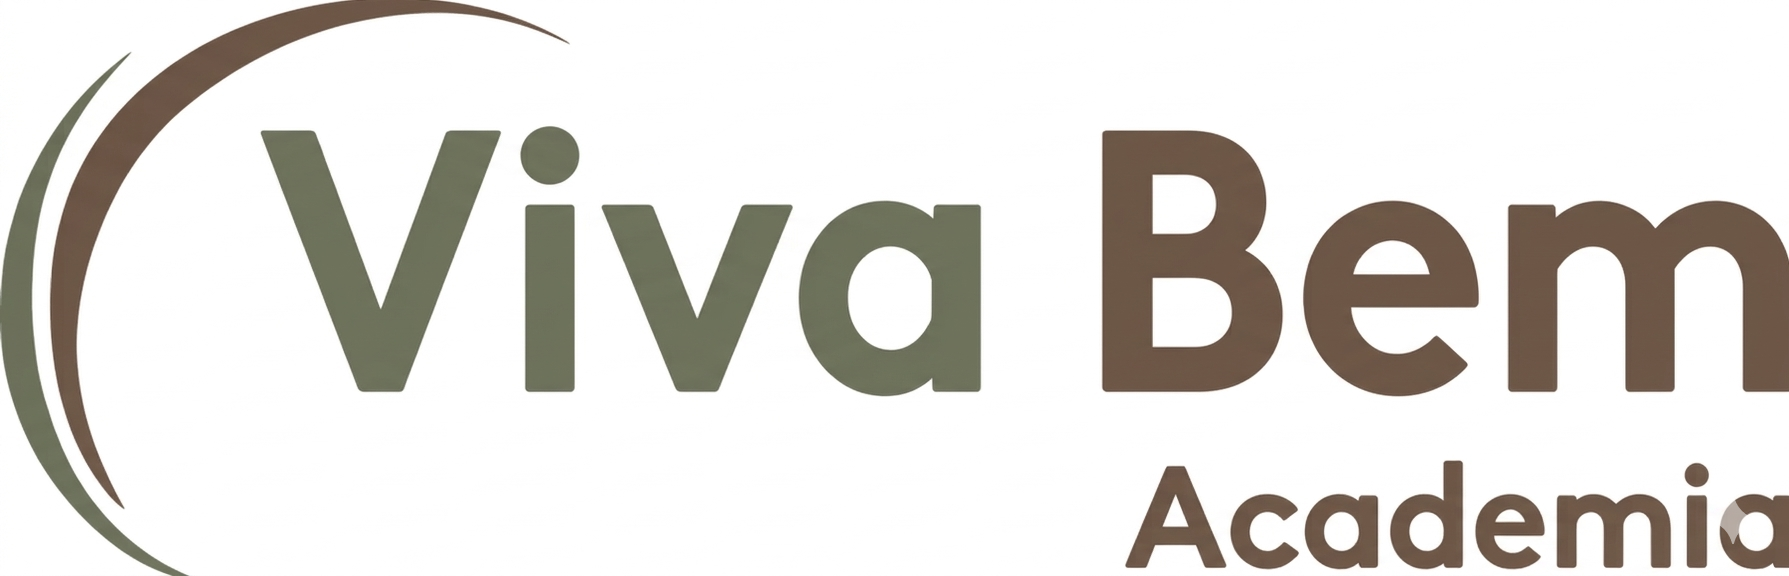
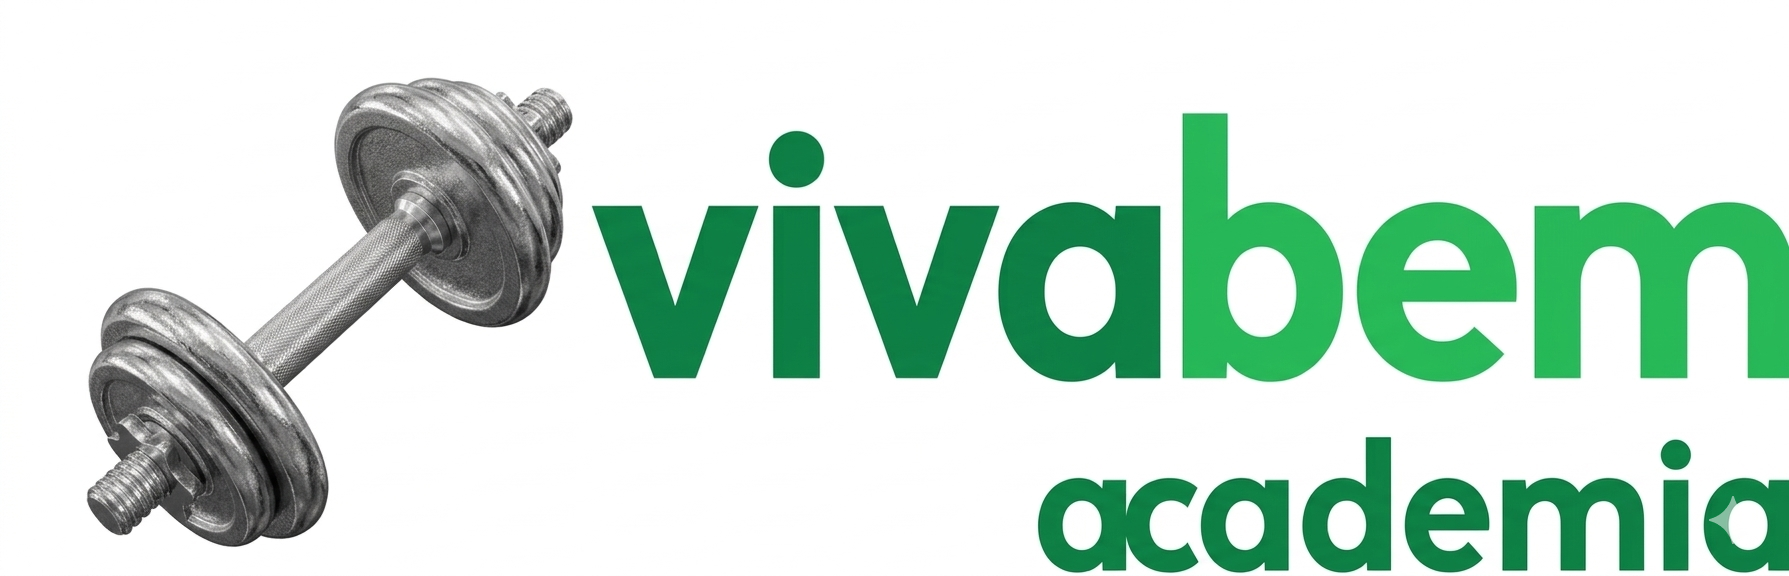
Finalizado

diff --git a/sobre.html b/sobre.html
@@ -14,10 +14,10 @@
             </div>
             <div class="menu">
                 <ul>
-                    <li>Home</li>
-                    <li>A Viva Bem</li>
-                    <li>Contato</li>
-                    <li>Área do Aluno</li>
+                    <a href="index.html"><li>Home</li></a>
+                    <a href="sobre.html"><li>A Viva Bem</li></a>
+                    <a href="contato.html"><li>Contato</li></a>
+                    <a href="area_do_aluno"><li>Área do Aluno</li></a>
                 </ul>
             </div>
         </div>
@@ -31,13 +31,11 @@
 
         <section>
             <div class="conteudo">
-                <p>A Greenlife Academias tem como propósito levar opções diferenciadas para quem busca saúde e qualidade de vida.
-                Com alto padrão de atendimento e os mais modernos sistemas e equipamentos do mercado, trabalhamos com foco na promoção de saúde por meio de um ambiente sustentável, seguro e familiar.</p>
-                <p>Atualmente com 21 unidades sendo 18 em Fortaleza, uma no Eusébio, uma em Caucaia e uma em Maranguape. Nossa missão é atender aos mais diversos públicos e faixas etárias, oferecendo diversas modalidades e atividades que conectem as pessoas com sentimentos de realização e com foco em resultados.</p>
+                <p>A Viva Bem Academia nasceu com o propósito de transformar vidas por meio da atividade física, promovendo saúde, bem-estar e qualidade de vida para todos os públicos. Com equipamentos de última geração e profissionais qualificados, oferecemos um ambiente completo para você treinar com segurança, conforto e motivação. Aqui, cada aluno é único e cada conquista é valorizada. Aqui, cada aluno encontra mais do que uma academia: encontra apoio, motivação e um ambiente preparado para incentivar o seu melhor. Nosso objetivo é fazer com que você se sinta bem, todos os dias.</p>
+                <p>Mais do que um espaço para treinar, somos um ambiente pensado para acolher, motivar e acompanhar cada aluno em sua jornada. Contamos com uma estrutura moderna, equipamentos de alta qualidade e uma equipe de profissionais capacitados, prontos para oferecer suporte e orientação personalizada. Nosso modelo é baseado em inovação, eficiência e foco no cliente, garantindo uma experiência completa e satisfatória para todos os perfis de alunos.</p>
                 <img src="img/img-section.png" alt="img">
-                <p>Somos mais que um local para a prática de exercícios físicos. Oferecemos a oportunidade cuidar do corpo, da mente, das relações e da família a partir da consciência de uma vida mais saudável em todos os âmbitos. Por meio das nossas atividades e serviços, o cliente Greenlife tem uma experiência diferente ao cuidar de si em um espaço multidisciplinar que integra gerações. Por isso somos conhecidos como a “Academia da Família”.</p>
-                <p>Incentivamos não só a prática de exercícios físicos em família, também estimulamos as relações humanas e convivência por meio de eventos e atividades complementares. Contamos com programas exclusivos voltados para o desenvolvimento infantil, apoiando a troca de experiência entre famílias, oferecendo um ambiente mais caloroso e preocupado com o bem-estar dos nossos clientes.
-                Somos um lugar seguro para cuidar da saúde, desenvolver bons hábitos e buscar a felicidade por meio da atividade física.</p>
+                <p>Nosso compromisso é proporcionar uma experiência completa, unindo conforto, segurança e inovação. Acreditamos que cuidar do corpo também é cuidar da mente, e por isso incentivamos hábitos saudáveis e uma rotina equilibrada..</p>
+                <p>Acreditamos que a prática de exercícios físicos transforma vidas, e trabalhamos todos os dias para oferecer um ambiente acolhedor, motivador e eficiente. Seja para quem está começando ou para quem já treina há anos, a Viva Bem é o lugar ideal para evoluir, superar limites e alcançar resultados reais.</p>
             </div>
         </section>
         <section class="sobre-espaco">
@@ -58,8 +56,8 @@
                     <img src="img/wstc.jpg" alt="wstc">
                     <div class="card-info">
                         <h3>Unidade Sul</h3>
-                        <p>📍 Av. Washington Soares, 3663 4º andar - Fortaleza</p>
-                        <button>Ver no mapa</button>
+                        <p>📍 Washington Soares trade center - WSTC, Av. Washington Soares, 3663 4º andar, torre 2 Edson Queiros - Fortaleza</p>
+                        <a href="https://maps.app.goo.gl/rifTr6s9x5mezc5UA " target="_blank"><button>Ver no mapa</button></a>
                     </div>
                 </div>
                 <div class="card">
@@ -67,19 +65,18 @@
                     <div class="card-info">
                         <h3>Unidade Aldeota</h3>
                         <p>📍 Manhattan Square Garden Av. Santos Dumont, 1510 - Fortaleza</p>
-                        <button>Ver no mapa</button>
+                        <a href="https://maps.app.goo.gl/aqhfeDzMmJkUZiR67" target="_blank"><button>Ver no mapa</button></a>
                     </div>
                 </div>
                 <div class="card">
                     <img src="img/premium.jpg" alt="Harmony">
                     <div class="card-info">
                         <h3>Unidade Bezerra de menezes</h3>
-                        <p>📍Av. Humberto Monte, 2929 Pici, 11º andar, Torre Norte - Fortaleza</p>
-                        <button>Ver no mapa</button>
+                        <p>📍 Av. Humberto Monte, 2929 Pici, 11º andar, Torre Norte - Fortaleza</p>
+                        <a href="https://maps.app.goo.gl/tC3yePqXASTpkPHdA" target="_blank"><button>Ver no mapa</button></a>
                     </div>
                 </div>
             </div>
-
         </section>
     </main>
 
@@ -87,25 +84,25 @@
         <div class="footer">
             <div class="card-footer">
                 <div class="nome-logo">
-                    <img class="img-logo" src="Imagens/LogoAgri.png" alt="logo-footer">
-                    <p>Conectando você ao futuro sustentavel da agricultura</p>
+                    <img class="img-logo" src="img/logo.png" alt="logo-footer">
+                    <p>Compromisso com a saúde e qualidade de vida</p>
 
-                    <a href="https://github.com/Sids-root?tab=repositories"><img class="img-icon" src="Imagens/githubpng.png" alt="github"></a>
-                    <a href="https://www.instagram.com/s_i_d11/"><img class="img-icon" src="Imagens/instagram.png" alt="insta"></a>
+                    <a href="https://github.com/Sids-root?tab=repositories"><img class="img-icon" src="img/github.png" alt="github"></a>
+                    <a href="https://www.instagram.com/s_i_d11/"><img class="img-icon" src="img/instagram.png" alt="insta"></a>
                 </div>
             </div>
             <div class="card-footer">
                 <nav class="footer-menu">
                     <h3>Links Rápidos</h3>
-                    <a href="">Home</a>
+                    <a href="index.html">Home</a>
                     <a href="sobre.html">Sobre</a>
-                    <a href="servicos.html">Serviços</a>
                     <a href="contato.html">Contato</a>
+                    <a href="area_do_aluno">Area do aluno</a>
                 </nav>
             </div>
             <div class="card-footer">
                 <h3>Contato</h3>
-                <p>📧 contato@agrovida.com</p>
+                <p>📧 contato@vivabem.com</p>
                 <p>📞 (85) 99999-9999</p>
                 <p>📍 Fortaleza - CE</p>
             </div>

diff --git a/sobre.css b/sobre.css
@@ -2,13 +2,18 @@
     margin: 0;
     padding: 0;
     box-sizing: border-box;
+    font-family: 'Poppins', sans-serif;
 }
 body{
-    font-family: 'Poppins', sans-serif;
     background-color: #fff;
+}
+a{
+    text-decoration: none;
+    color: #ffffff;
 }
 nav{
     display: flex; 
+    background-color: #0f350b;
 }
 .container{
     display: flex;
@@ -51,6 +56,7 @@ main img{
     font-size: 18px;
     line-height: 1.5;
     margin-bottom: 20px;
+    color: #1F2937;
 }
 
 .galeria{
@@ -66,15 +72,15 @@ main img{
 h2{
     font-size: 40px;
     text-align: center;
-    margin: 30px 0px 30px 0px;
-    color: #fff;
+    margin-bottom: 70px;
+    color: #F3F4F6;
 }
 .unidades{
     width: 100%;
-    padding: 40px 20px;
-    background-image: url(https://pratiquefitness.com.br/blog/wp-content/uploads/2023/08/Descubra-as-melhores-modalidades-de-academia-para-o-seu-perfil-1.jpg);
+    padding: 80px 20px;
+    background-image: url(https://totalpass.com/wp-content/uploads/2025/10/academia-inteligente-3.jpg);
     
-    background: linear-gradient(rgba(0,0,0,0.6), rgba(0,0,0,0.6)), url(https://pratiquefitness.com.br/blog/wp-content/uploads/2023/08/Descubra-as-melhores-modalidades-de-academia-para-o-seu-perfil-1.jpg);
+    background: linear-gradient(rgba(0,0,0,0.6), rgba(0,0,0,0.6)), url(https://totalpass.com/wp-content/uploads/2025/10/academia-inteligente-3.jpg);
     background-size: cover;
     background-position: center;
     background-attachment:fixed;
@@ -105,6 +111,11 @@ h2{
     background-color: #555555;
     padding: 15px;
 }
+.card-info h3{
+    color: #fff;
+    margin-bottom: 10px;
+    text-align: center;
+}
 .card-info p{
     margin-bottom: 15px;
     font-size: 14px;
@@ -128,10 +139,10 @@ h2{
 .footer{
   display: flex;
   justify-content: center;
-  gap: 30px;
+  gap: 100px;
   padding: 20px 0;
   background-color: #0f350b;
-  margin-top: 100px;
+  
 }
 .card-footer{
   max-width: 300px;
@@ -163,4 +174,10 @@ h2{
 .footer-bottom p {
   color: #ccc;
   font-size: 14px;
+}
+.img-logo{
+  width: 200px;
+}
+.img-icon{
+  width: 30px;
 }
